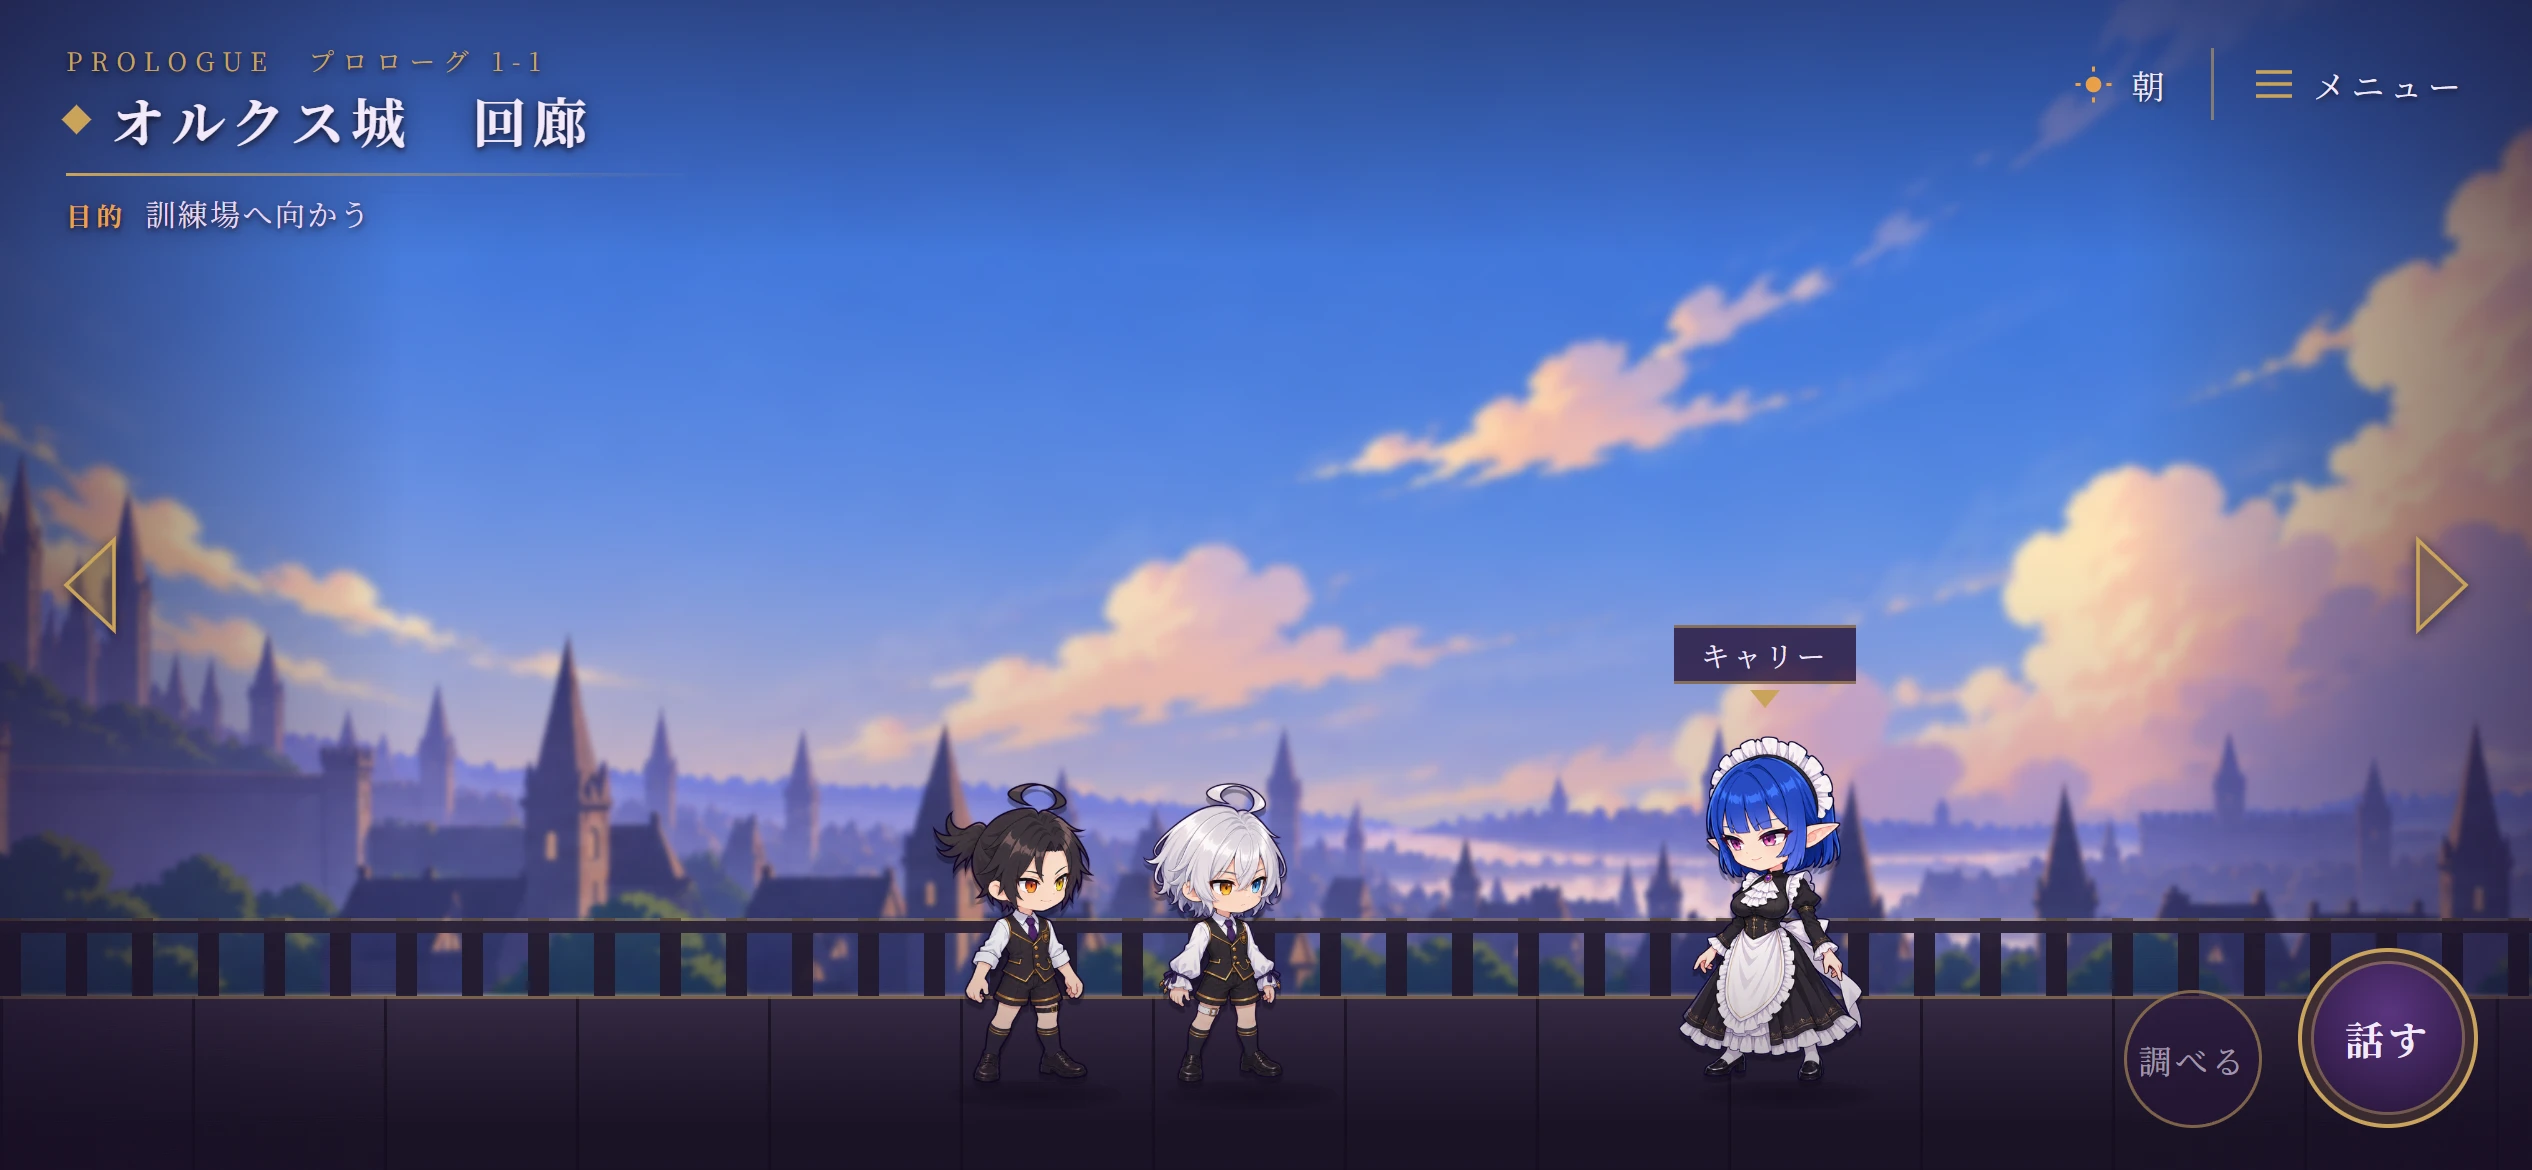
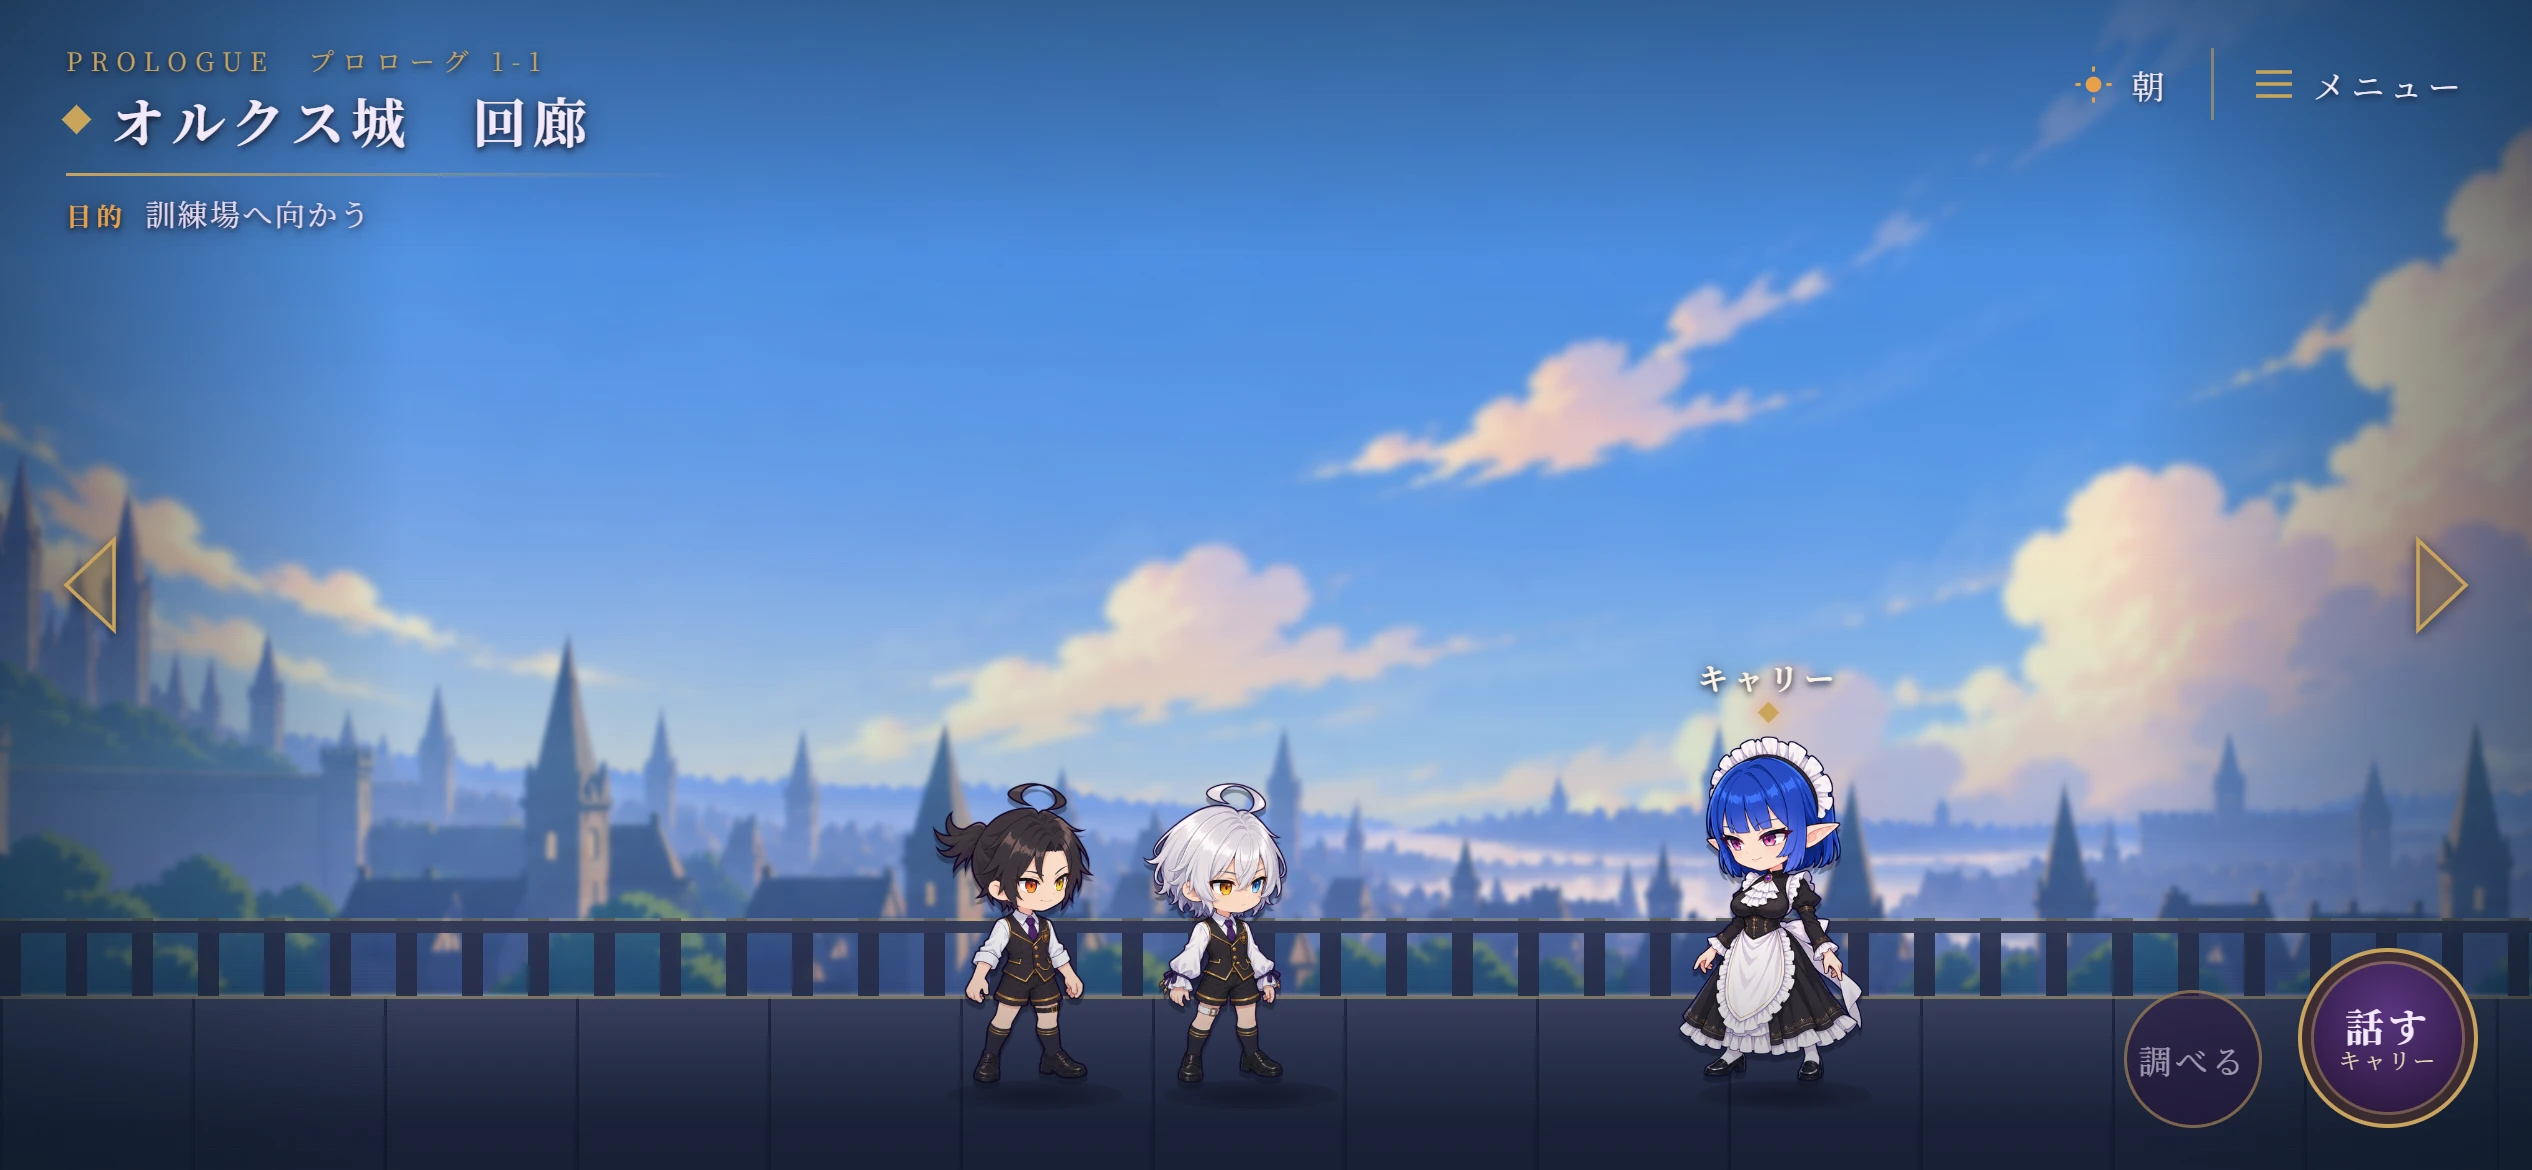
docs: exploration UI mock v3 (blue-teal overlay, name without band) and memo on overlay color rule

diff --git a/docs/90-worklogs/WORK_MEMO_2026-10-01.md b/docs/90-worklogs/WORK_MEMO_2026-10-01.md
@@ -119,3 +119,5 @@
 - 原作者の相談: 探索マップを戦闘マップに使い回す件。割り切って探索と戦闘は別に作るか（全体マップは箱庭で全景、場所を選ぶとその場所の2D横スクロールで歩いて探索・会話）。
 - 総合担当の答え（**検討中**）: 分けるのがよい。①全体マップ＝箱庭（3D）で行き先を選ぶ → ②場所の探索＝2D横スクロール（歩く・調べる・話す）→ ③戦闘＝3Dの盤面（戦闘のときだけ）。使い回しの代わりに、素材（旗・燭台・絨毯）と色・光をそろえ、切り替えの演出でつなぐ。9/28 の「探索も3Dの盤面で行う」を変える決定になるので、試作のあとで原作者が決める。
 - 探索UIの見本（原作者の依頼）: `docs/10-design/ui/concepts/explore_2d_ui_mock_2026-10-02.webp`（844×390 の3倍）。Codex の空・遠景の絵に、SDキャラ（幼アルシェ・幼カリマ・キャリー）と本編の意匠のUI。左上=章・場所の名前・目的（紫の帯・金の細罫線・明朝体）、右上=時間帯とメニュー、左下=歩く（左右）、右下=話す・調べる（近づいたときだけ）、話せる相手の上に名前の札。背景はぼかし（被写界深度）と紫のもや（空気遠近）、四隅を暗く。回廊の本体の絵はまだないので、床と手すりは仮。
+- 見本の直し（原作者 2026-10-02）: 上のUIは帯なし（文字と金の細い線だけ）、歩くの◀▶は左右の端の真ん中、話せる相手の名前は帯なし（白い文字と金のひし形）＋「話す」ボタンの中に相手の名前。
+- **オーバーレイ（色かぶせ・空気遠近・四隅）の色は、背景に合わせて変えられるようにする**（原作者）。紫は青空に合わない。原作者の配色の考え方: 背景の色相の**隣の色か反対の色**を使う（黄色は黄ばむ）。青空の回廊では C（空の青）か F（青緑の霞）、見本はその中間（青〜青緑）にした。自動で決めるなら「背景の主な色相の隣の色」を選ぶ規則にする。色かぶせはキャラにはかけない（キャラは上に出す）。
